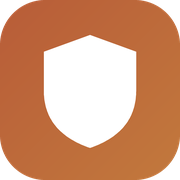
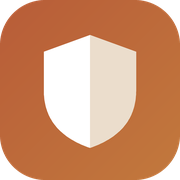
Give the shield a darker right half
Two flat tones split down the centre — white and a warm off-white — the way
the emoji shield read, without reintroducing any shading. Applied to
favicon.svg, the nav logo, and the generator, with rasters regenerated.

Changed region(s): [[0.5, 0.1944, 0.7778, 0.8333]]

diff --git a/templates/_nav.html b/templates/_nav.html
@@ -1,6 +1,6 @@
 <nav class="nav-bar" id="navbar">
   <a class="nav-logo" href="index.html">
-    <div class="nav-logo__icon"><svg viewBox="0 0 32 32" aria-hidden="true"><path d="M16 6.2 L24.2 9.2 V16.1 c0 5.3-3.4 8.7-8.2 10.2 -4.8-1.5-8.2-4.9-8.2-10.2 V9.2 Z" fill="currentColor"/></svg></div>
+    <div class="nav-logo__icon"><svg viewBox="0 0 32 32" aria-hidden="true"><path d="M16 6.2 L24.2 9.2 V16.1 c0 5.3-3.4 8.7-8.2 10.2 -4.8-1.5-8.2-4.9-8.2-10.2 V9.2 Z" fill="currentColor"/><path d="M16 6.2 L24.2 9.2 V16.1 c0 5.3-3.4 8.7-8.2 10.2 Z" fill="#EBDDCC"/></svg></div>
     <span class="nav-logo__text">{{ site.name }}</span>
   </a>
   <div class="nav-links" id="navLinks">

diff --git a/tools/make_icons.py b/tools/make_icons.py
@@ -12,6 +12,7 @@ from PIL import Image, ImageDraw
 
 TILE_FROM, TILE_TO = (0xB8, 0x5C, 0x38), (0xC2, 0x79, 0x3D)   # terracotta gradient
 SHIELD = (0xFF, 0xFF, 0xFF, 255)                              # white
+SHIELD_DARK = (0xEB, 0xDD, 0xCC, 255)                         # right half
 
 
 def draw(size: int) -> Image.Image:
@@ -40,6 +41,14 @@ def draw(size: int) -> Image.Image:
                         (1-t)**2 * y0 + 2*(1-t)*t * cy + t**2 * y1))
     pts.append((7.8, 9.2))
     d.polygon([(x * u, y * u) for x, y in pts], fill=SHIELD)
+
+    # right half in a slightly darker flat tone: apex -> right edge -> point
+    half = [(16, 6.2), (24.2, 9.2), (24.2, 16.1)]
+    for i in range(41):
+        t2 = i / 40
+        half.append(((1-t2)**2 * 24.2 + 2*(1-t2)*t2 * 24.2 + t2**2 * 16,
+                     (1-t2)**2 * 16.1 + 2*(1-t2)*t2 * 23.5 + t2**2 * 26.3))
+    d.polygon([(x * u, y * u) for x, y in half], fill=SHIELD_DARK)
 
     return img.resize((size, size), Image.LANCZOS)
 
